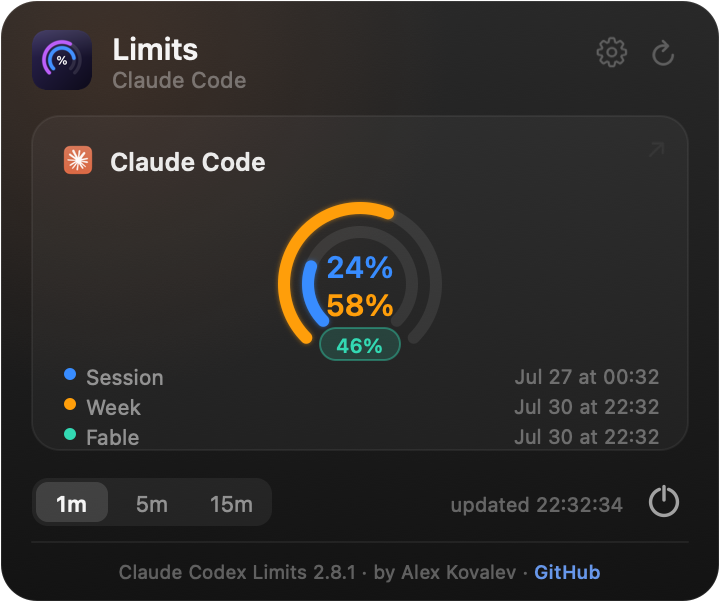
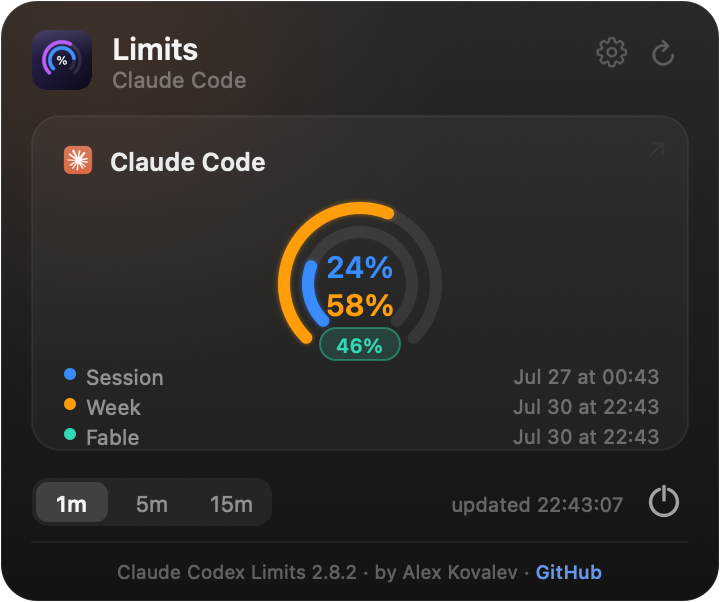
v2.8.2 — give the per-model limit its own colour ramp
The scoped limit shared the amber/red severity ramp with the weekly
one, so a card could show a red 100% pill beside a red weekly ring with
nothing to tell them apart — "is Fable spent, or is the week?".

scopedColor() replaces metricColor() for this metric: teal below 50%,
coral to 80%, magenta above. Still legibly an alarm, but distinct from
the weekly's amber and red at every level, so the ambiguity is gone in
the mid range too, not just at the top. Applies to both the pill and
the row dot, which are drawn from the same value.

diff --git a/Sources/LimitsMonitor.swift b/Sources/LimitsMonitor.swift
@@ -711,8 +711,19 @@ let PANEL_W: CGFloat = 360
 let PANEL_H: CGFloat = 286
 
 /// Identity colour of a per-model weekly limit — a third hue alongside session-blue and
-/// weekly-purple. Severity still overrides it at 50% / 80%, like every other metric.
+/// weekly-purple.
 let SCOPED_COLOR = NSColor(srgbRed: 0.20, green: 0.85, blue: 0.70, alpha: 1)
+
+/// Severity ramp for a per-model limit — deliberately NOT the shared amber/red ramp.
+/// The weekly limit goes amber then red as well, and two identically coloured readings on
+/// one card can't be told apart: a red pill next to a red ring leaves you guessing whether
+/// it's the model that ran out or the week. Coral and magenta stay unmistakably "hot" while
+/// remaining distinct from the weekly's amber and red at every level.
+func scopedColor(_ pct: Double) -> NSColor {
+    if pct >= 80 { return NSColor(srgbRed: 0.98, green: 0.22, blue: 0.56, alpha: 1) }
+    if pct >= 50 { return NSColor(srgbRed: 0.99, green: 0.47, blue: 0.38, alpha: 1) }
+    return SCOPED_COLOR
+}
 /// Height of the extra card row a per-model limit adds.
 let SCOPED_ROW_H: CGFloat = 15
 
@@ -730,7 +741,7 @@ func panelMainHeight(_ claude: LimitData, _ codex: LimitData) -> CGFloat {
     PANEL_H + scopedRowExtra(claude, codex)
 }
 enum PanelMode { case main, settings, whatsnew, claudeFix }
-let APP_VERSION = "2.8.1"
+let APP_VERSION = "2.8.2"
 let APP_AUTHOR = "Alex Kovalev"
 let REPO_URL = "https://github.com/ArrivaRUS/claude-codex-limits"
 let CLAUDE_INSTALL_CMD = "curl -fsSL https://claude.ai/install.sh | bash"
@@ -999,7 +1010,7 @@ func drawPanel(_ ctx: CGContext, size: CGSize, claude: LimitData, codex: LimitDa
             }
             text(attr(label, 10, .semibold, color), x: pillR.minX + padL + icoW + midGap, topY: pillTop + (pillH - 10) / 2 - 0.5)
         }
-        let scopedCol = d.scoped.map { metricColor(SCOPED_COLOR, $0.percent) } ?? SCOPED_COLOR
+        let scopedCol = d.scoped.map { scopedColor($0.percent) } ?? SCOPED_COLOR
         if !stale, let rc = d.resetCredits, rc >= 1 {
             pill("arrow.clockwise", "\(rc)", amber)
         } else if !stale, let s = d.scoped {

diff --git a/README.md b/README.md
@@ -3,7 +3,7 @@
 **English** · [Русский](README.ru.md)
 
 <p align="center">
-  <img src="docs/banner.png?v=281" alt="Claude Codex Limits — macOS menu bar usage limits" width="820">
+  <img src="docs/banner.png?v=282" alt="Claude Codex Limits — macOS menu bar usage limits" width="820">
 </p>
 
 A tiny macOS menu-bar app that shows how much of your **Claude Code** and **Codex**
@@ -13,9 +13,9 @@ Each row shows `session% / weekly%` (the rolling 5‑hour window and the 7‑day
 with the product's icon to its left. Click the tray icon for a detailed popover.
 
 <p align="center">
-  <img src="docs/menubar-dark.png?v=281" width="180" alt="Menu bar (dark)">
+  <img src="docs/menubar-dark.png?v=282" width="180" alt="Menu bar (dark)">
   &nbsp;&nbsp;
-  <img src="docs/panel-en.png?v=281" width="320" alt="Popover">
+  <img src="docs/panel-en.png?v=282" width="320" alt="Popover">
 </p>
 
 ## Features
@@ -38,16 +38,16 @@ with the product's icon to its left. Click the tray icon for a detailed popover.
 - **Launch at login** — a toggle right in Settings; no Dock icon, no dependencies beyond what macOS already ships.
 
 <p align="center">
-  <img src="docs/menubar-single.png?v=281" width="140" alt="Single product (menu bar)">
+  <img src="docs/menubar-single.png?v=282" width="140" alt="Single product (menu bar)">
   &nbsp;&nbsp;
-  <img src="docs/panel-single-en.png?v=281" width="300" alt="Single product (popover)">
+  <img src="docs/panel-single-en.png?v=282" width="300" alt="Single product (popover)">
 </p>
 <p align="center"><sub>With only one subscription set up, the tray and popover collapse to a single row / card.</sub></p>
 
-<p align="center"><img src="docs/settings-en.png?v=281" width="250" alt="Settings screen"></p>
+<p align="center"><img src="docs/settings-en.png?v=282" width="250" alt="Settings screen"></p>
 <p align="center"><sub>Settings (⚙): interface language · launch at login · a sound per event (resets &amp; limit‑reached) · built‑in updates.</sub></p>
 
-<p align="center"><img src="docs/whatsnew-en.png?v=281" width="320" alt="What's new screen"></p>
+<p align="center"><img src="docs/whatsnew-en.png?v=282" width="320" alt="What's new screen"></p>
 <p align="center"><sub>“What’s new”: release notes for every version you skipped, then update straight from there.</sub></p>
 
 ## How it works
@@ -87,7 +87,7 @@ you turn it on in Settings.
 
 ### 2. From the .dmg
 
-1. Download `ClaudeCodexLimits-2.8.1.dmg` from the [Releases](../../releases) page.
+1. Download `ClaudeCodexLimits-2.8.2.dmg` from the [Releases](../../releases) page.
 2. Open it and drag **Claude Codex Limits** into **Applications**.
 3. Launch it. The build isn't notarized, so on **macOS Sequoia / Tahoe** the first
    launch is blocked. Do this once:
@@ -123,7 +123,7 @@ Requirements: macOS 13+, the Xcode command‑line tools (`swiftc`). No packages 
 ## Build a release
 
 ```bash
-./scripts/make-dmg.sh     # → dist/ClaudeCodexLimits-2.8.1.dmg
+./scripts/make-dmg.sh     # → dist/ClaudeCodexLimits-2.8.2.dmg
 ```
 
 ## Project layout
